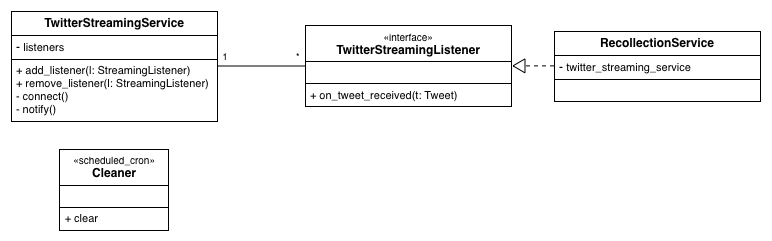
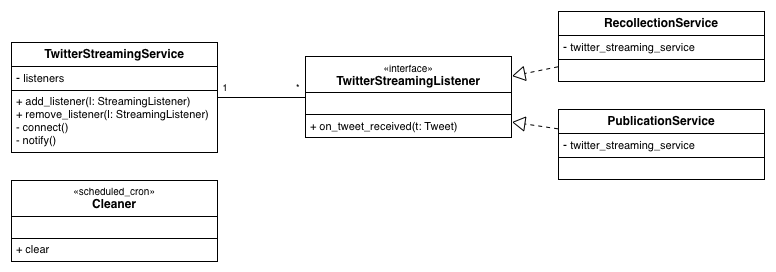
Add minor content

diff --git a/out/main.html b/out/main.html
@@ -2057,6 +2057,11 @@ reader.foreach({
 <td class="tableblock halign-left valign-top"><p class="tableblock">Mercurial</p></td>
 <td class="tableblock halign-left valign-top"><p class="tableblock">Se utilizará Mercurial como sistema de control de versiones distribuido apoyado sobre <strong>Bitbucket</strong> como hosting del proyecto. Mercurial es un SCVD similar a Git, pero que simplifica varias de las acciones habituales en el flujo de trabajo de un desarrollador: <code>pull</code>, <code>push</code>, <code>merge</code>, etc. A pesar de no tener un sistema de ramas tan potente como Git, permite un funcionamiento <em>similar</em> mediante el uso de <strong>bookmarks</strong>.</p></td>
 </tr>
+<tr>
+<td class="tableblock halign-left valign-top"><p class="tableblock">RNF3.5</p></td>
+<td class="tableblock halign-left valign-top"><p class="tableblock">Cola de mensajes con características TTL</p></td>
+<td class="tableblock halign-left valign-top"><p class="tableblock">La implementación del estándar AMQP seleccionada, deberá ofrecer la capacidad de seleccionar el <strong>Time To Live</strong> tanto a nivel de cola como a nivel de mensaje, para evitar que se acumulen excesivos tuits en el sistema de colas. Para ello, lo ideal es que cada mensaje expire en el mismo momento de llegar a la cola a no ser que algún consumidor este disponible para procesarlo.</p></td>
+</tr>
 </tbody>
 </table>
 <table id="storage-requirements" class="tableblock frame-all grid-all" style="width: 100%;">
@@ -2820,10 +2825,16 @@ reader.foreach({
 <div class="title">Figure 11. Clases del Sistema de Streaming</div>
 </div>
 <div class="paragraph">
-<p>El Sistema de Streaming tiene como objetivo comunicarse con un flujo de tuits ofrecido por una API externa y tener la capacidad de procesarlo satisfactoriamente para ofrecer esas mismas capacidades de streaming al resto de la aplicación. La solución que se propone en este caso es utilizar el patrón de diseño <strong>Observer</strong>, en donde la clase <code>TwitterStreamingService</code> realizaría la conexión con el servicio externo, y lanzaría un evento cada vez que recibiera un nuevo tuit. De esta manera, cualquier clase que necesite de un flujo de datos, únicamente tendría que suscribirise como <em>listener</em> de la clase <code>TwitterStreamingService</code>, implementar la interfaz <code>TwitterStreamingListener</code> y redefinir su método <code>on_tweet_received</code> para trabajar con el nuevo tuit recibido.</p>
+<p>El Sistema de Streaming tiene como objetivo comunicarse con un flujo de tuits ofrecido por una API externa y tener la capacidad de procesarlo satisfactoriamente para ofrecer esas mismas capacidades de streaming al resto de la aplicación. La solución que se propone en este caso es utilizar el patrón de diseño <strong>Observer</strong>, en donde la clase <code>TwitterStreamingService</code> realizaría la conexión con el servicio externo, y lanzaría un evento cada vez que recibiera un nuevo tuit. De esta manera, las clases que requieran de un flujo de tuits en tiempo real únicamente tendría que suscribirise como <em>listener</em> de la clase <code>TwitterStreamingService</code>, implementar la interfaz <code>TwitterStreamingListener</code> y redefinir su método <code>on_tweet_received</code> para trabajar con el nuevo tuit recibido.</p>
 </div>
 <div class="paragraph">
-<p>La clase <code>RecollectionService</code>, por ejemplo, implementaría la interfaz anterior para guardar todos los tuits recibidos en la base de datos, actuando así como el recolector de tuits del sistema. Esta clase se debería ejecutar de manera asíncrona y continúa a todo el ciclo de vida de la aplicación.</p>
+<p>La clase <code>RecollectionService</code>, por ejemplo, implementaría la interfaz anterior para guardar todos los tuits recibidos en la base de datos, actuando así como el recolector de tuits del sistema. Por otro lado, la clase <code>PublicationService</code> realizará una implementación para publicar cada tuit recibido al resto del sistema.</p>
+</div>
+<div class="paragraph">
+<p>Con el objetivo de poder realizar un sistema escalable, el sistema de streaming se ejecutará como un componente externo de la aplicación, puesto que podría presentar problemas a la hora de ejecutar dos instancias de la aplicación con el sistema de streaming integrado (produciendo resultados duplicados en la base de datos por acceder de manera concurrente al mismo flujo de datos).</p>
+</div>
+<div class="paragraph">
+<p>Para comunicar ambos sistemas se utilizará una cola de mensajes (como por ejemplo <strong>RabbitMQ<span class="footnote">[<a id="_footnoteref_6" class="footnote" href="#_footnote_6" title="View footnote.">6</a>]</span></strong>) que transportará los tuits en un formato intermedio (JSON). En la aplicación web, cada instancia que necesite un flujo de datos necesitará suscribirse a una de las colas para recuperar el mensaje y poder trabajar con él (un caso de uso para esta funcionalidad sería en el momento de ejecutar un proyecto, donde la aplicación web necesitará un flujo en tiempo real de tuits para evaluarlos contra el modelo e identificar aquellos que pertenecen al área local).</p>
 </div>
 <div class="paragraph">
 <p><code>Cleaner</code> es una clase que se ejecutará como <strong>cron</strong> de la aplicación de manera periódica en plazos de 24 horas. Su misión será eliminar tuits más antiguos de 48 horas.</p>
@@ -2863,7 +2874,7 @@ reader.foreach({
 <div class="sect4">
 <h5 id="_pantalla_del_dashboard_de_proyectos">Pantalla del dashboard de Proyectos</h5>
 <div class="paragraph">
-<p>La pantalla de administración para gestionar el conjunto de proyectos de un usuario se ha diseñado de tal manera que permita navegar de manera sencilla sobre el histórico de Proyectos, así como disponer de un acceso rápido para crear uno nuevo.</p>
+<p>La pantalla de administración, cuyo objetivo es gestionar el conjunto de proyectos de un usuario, se ha diseñado de tal manera que permita navegar de manera sencilla sobre el histórico de Proyectos, así como disponer de un acceso rápido para crear uno nuevo.</p>
 </div>
 <div class="imageblock" style="text-align: center">
 <div class="content">
@@ -2897,7 +2908,7 @@ reader.foreach({
 </ol>
 </div>
 <div class="paragraph">
-<p>Además, el color de fondo que acompaña cada sección informa de si el proyecto se puede ejecutar en ese momento (fondo verde y botón para <strong>ejecutar ahora</strong>) o si su fecha de ejecución ya ha pasado (color de fondo rojo).</p>
+<p>Además, el color de fondo que acompaña cada sección informa de si el proyecto se puede ejecutar en ese momento (fondo verde y botón para <strong>Comenzar ejecución en tiempo real</strong>) o si su fecha de ejecución ya ha pasado (color de fondo rojo).</p>
 </div>
 <div class="paragraph">
 <p>En la parte superior derecha de cada Proyecto, se presenta un acceso rápido para realizar una edición de sus características.</p>
@@ -2921,7 +2932,7 @@ reader.foreach({
 <p>Las siguientes imágenes muestran un conjunto de <em>lightboxes</em> que contienen el <em>wizard</em> propuesto para la creación de un nuevo proyecto. La primera imagen contiene el paso número uno, en donde se insertan las características principales del proyecto como su <strong>nombre</strong>, <strong>idioma</strong> o <strong>términos a monitorizar</strong>.</p>
 </div>
 <div class="paragraph">
-<p>Los pasos dos y tres, muestran un mapa en el que el usuario podrá dibujar de manera guiada rectángulos que actuarán como <em>bounding boxes</em> para indicar las áreas local y global sobre las que realizar la ejecución. Un ejemplo real con la interfaz propuesta se puede observar en la aplicación web B2pick (ver <a href="#_b2pick_aplicación_web_para_seleccionar_em_bounding_boxes_em">B2pick, aplicación web para seleccionar <em>bounding boxes</em></a>).</p>
+<p>Los pasos dos y tres, muestran un mapa en el que el usuario podrá dibujar de manera guiada rectángulos que actuarán como <em>bounding boxes</em> para indicar las áreas local y global sobre las que realizar la ejecución. Un ejemplo real con la interfaz propuesta se puede observar en la aplicación web <strong>B2pick</strong> (ver <a href="#_b2pick_aplicación_web_para_seleccionar_em_bounding_boxes_em">B2pick, aplicación web para seleccionar <em>bounding boxes</em></a>).</p>
 </div>
 <div class="imageblock" style="text-align: center">
 <div class="content">
@@ -2933,7 +2944,7 @@ reader.foreach({
 <div class="sect4">
 <h5 id="_pantalla_de_ejecución">Pantalla de Ejecución</h5>
 <div class="paragraph">
-<p>Por último, la pantalla de ejecución será el lugar en el que el usuario podrá ejecutar en tiempo real un proyecto y observar qué resultados consigue rescatar. Su objetivo principal es ser lo más dinámica y flexible posible para permitir al usuario obtener información inmediata de los resultados de la ejecución. Por tanto, se establecen dos columnas a los laterales de la pantalla (<strong>Dentro</strong> y <strong>Fuera</strong>) donde se irán colocando los tuits que se reciban en función de la localización inferida por el clasificador (se colocarán en la columna de <strong>Dentro</strong> aquellos tuits que el clasificador considere que pertenecen al <strong>área local</strong> y viceversa).</p>
+<p>Por último, la pantalla de ejecución será el lugar en el que el usuario podrá ejecutar en tiempo real un proyecto y observar qué resultados consigue obtener. Su objetivo principal es ser lo más dinámica y flexible posible para permitir al usuario obtener información inmediata de los resultados de la ejecución. Por tanto, se establecen dos columnas a los laterales de la pantalla (<strong>Dentro</strong> y <strong>Fuera</strong>) donde se irán colocando los tuits que se reciban en función de la localización inferida por el clasificador (se colocarán en la columna de <strong>Dentro</strong> aquellos tuits que el clasificador considere que pertenecen al <strong>área local</strong> y viceversa).</p>
 </div>
 <div class="paragraph">
 <p>Los controles centrales permitirán iniciar y detener la ejecución, y el <em>spinner</em> inferior permitirá al usuario establecer el nivel de confianza que requiere por parte del sistema para etiquetar un tuit como local. Si se indica que el sistema deba tener un grado de confianza muy alto, los resultados para la columna de <strong>Dentro</strong> serán muchos menos, pero su precisión será mucho más elevada.</p>
@@ -3081,7 +3092,7 @@ scalacOptions ++= Seq("-unchecked", "-deprecation") <b>(5)</b></pre>
 <div class="sect2">
 <h3 id="_vowpal_wabbit">Vowpal Wabbit</h3>
 <div class="paragraph">
-<p><strong>Vowpal Wabbit<span class="footnote">[<a id="_footnoteref_6" class="footnote" href="#_footnote_6" title="View footnote.">6</a>]</span></strong> es un proyecto creado originalmente por <em>Yahoo! Research</em> que fue posteriormente continuado por <em>Microsoft Research</em>, consistente en la creación de un nuevo algoritmo de aprendizaje automático rápido y escalable que permita trabajar con grandes cantidades de datos. A partir de una serie de información específicamente preparada para ser consumida por Vowpal Wabbit, este es capaz de crear un propio modelo de datos que sirva como base de entrenamiento para después, mediante la aplicación de diversos algoritmos, predecir un resultado en base al conocimiento adquirido en ejecuciones anteriores.</p>
+<p><strong>Vowpal Wabbit<span class="footnote">[<a id="_footnoteref_7" class="footnote" href="#_footnote_7" title="View footnote.">7</a>]</span></strong> es un proyecto creado originalmente por <em>Yahoo! Research</em> que fue posteriormente continuado por <em>Microsoft Research</em>, consistente en la creación de un nuevo algoritmo de aprendizaje automático rápido y escalable que permita trabajar con grandes cantidades de datos. A partir de una serie de información específicamente preparada para ser consumida por Vowpal Wabbit, este es capaz de crear un propio modelo de datos que sirva como base de entrenamiento para después, mediante la aplicación de diversos algoritmos, predecir un resultado en base al conocimiento adquirido en ejecuciones anteriores.</p>
 </div>
 <div class="paragraph">
 <p>Además de la velocidad y precisión de los resultados que puede ofrecer Vowpal Wabbit, una de sus características más importantes es la capacidad de funcionar como un demonio del sistema e ir aprendiendo <em>en caliente</em> a través de nuevos modelos de datos. Esto, a diferencia de otros software de aprendizaje automático, permite que el sistema pueda adquirir un conocimiento incremental y ofrecer mejores resultados a medida que pasa el tiempo.</p>
@@ -3191,7 +3202,7 @@ Usage: vw-input-translator [options] &lt;file&gt;
 <div class="content">
 <img src="../assets/appendixes/twitter-streaming-api.png" alt="Modelo de comunicación entre un cliente y la API Streaming de Twitter">
 </div>
-<div class="title">Figure 17. Comunicación entre un cliente y la API Streaming de Twitter<span class="footnote">[<a id="_footnoteref_7" class="footnote" href="#_footnote_7" title="View footnote.">7</a>]</span></div>
+<div class="title">Figure 17. Comunicación entre un cliente y la API Streaming de Twitter<span class="footnote">[<a id="_footnoteref_8" class="footnote" href="#_footnote_8" title="View footnote.">8</a>]</span></div>
 </div>
 <div class="sect2">
 <h3 id="_almacenamiento_de_datos">Almacenamiento de datos</h3>
@@ -3473,10 +3484,13 @@ Usage: Falcon [options]
 <a href="#_footnoteref_5">5</a>. <a href="http://www.xmlpull.org/">http://www.xmlpull.org/</a>
 </div>
 <div class="footnote" id="_footnote_6">
-<a href="#_footnoteref_6">6</a>. <a href="http://hunch.net/~vw/">http://hunch.net/~vw/</a>
+<a href="#_footnoteref_6">6</a>. <a href="http://www.rabbitmq.com/">http://www.rabbitmq.com/</a>
 </div>
 <div class="footnote" id="_footnote_7">
-<a href="#_footnoteref_7">7</a>. <a href="https://dev.twitter.com/docs/api/streaming">https://dev.twitter.com/docs/api/streaming</a>
+<a href="#_footnoteref_7">7</a>. <a href="http://hunch.net/~vw/">http://hunch.net/~vw/</a>
+</div>
+<div class="footnote" id="_footnote_8">
+<a href="#_footnoteref_8">8</a>. <a href="https://dev.twitter.com/docs/api/streaming">https://dev.twitter.com/docs/api/streaming</a>
 </div>
 </div>
 <div id="footer">
